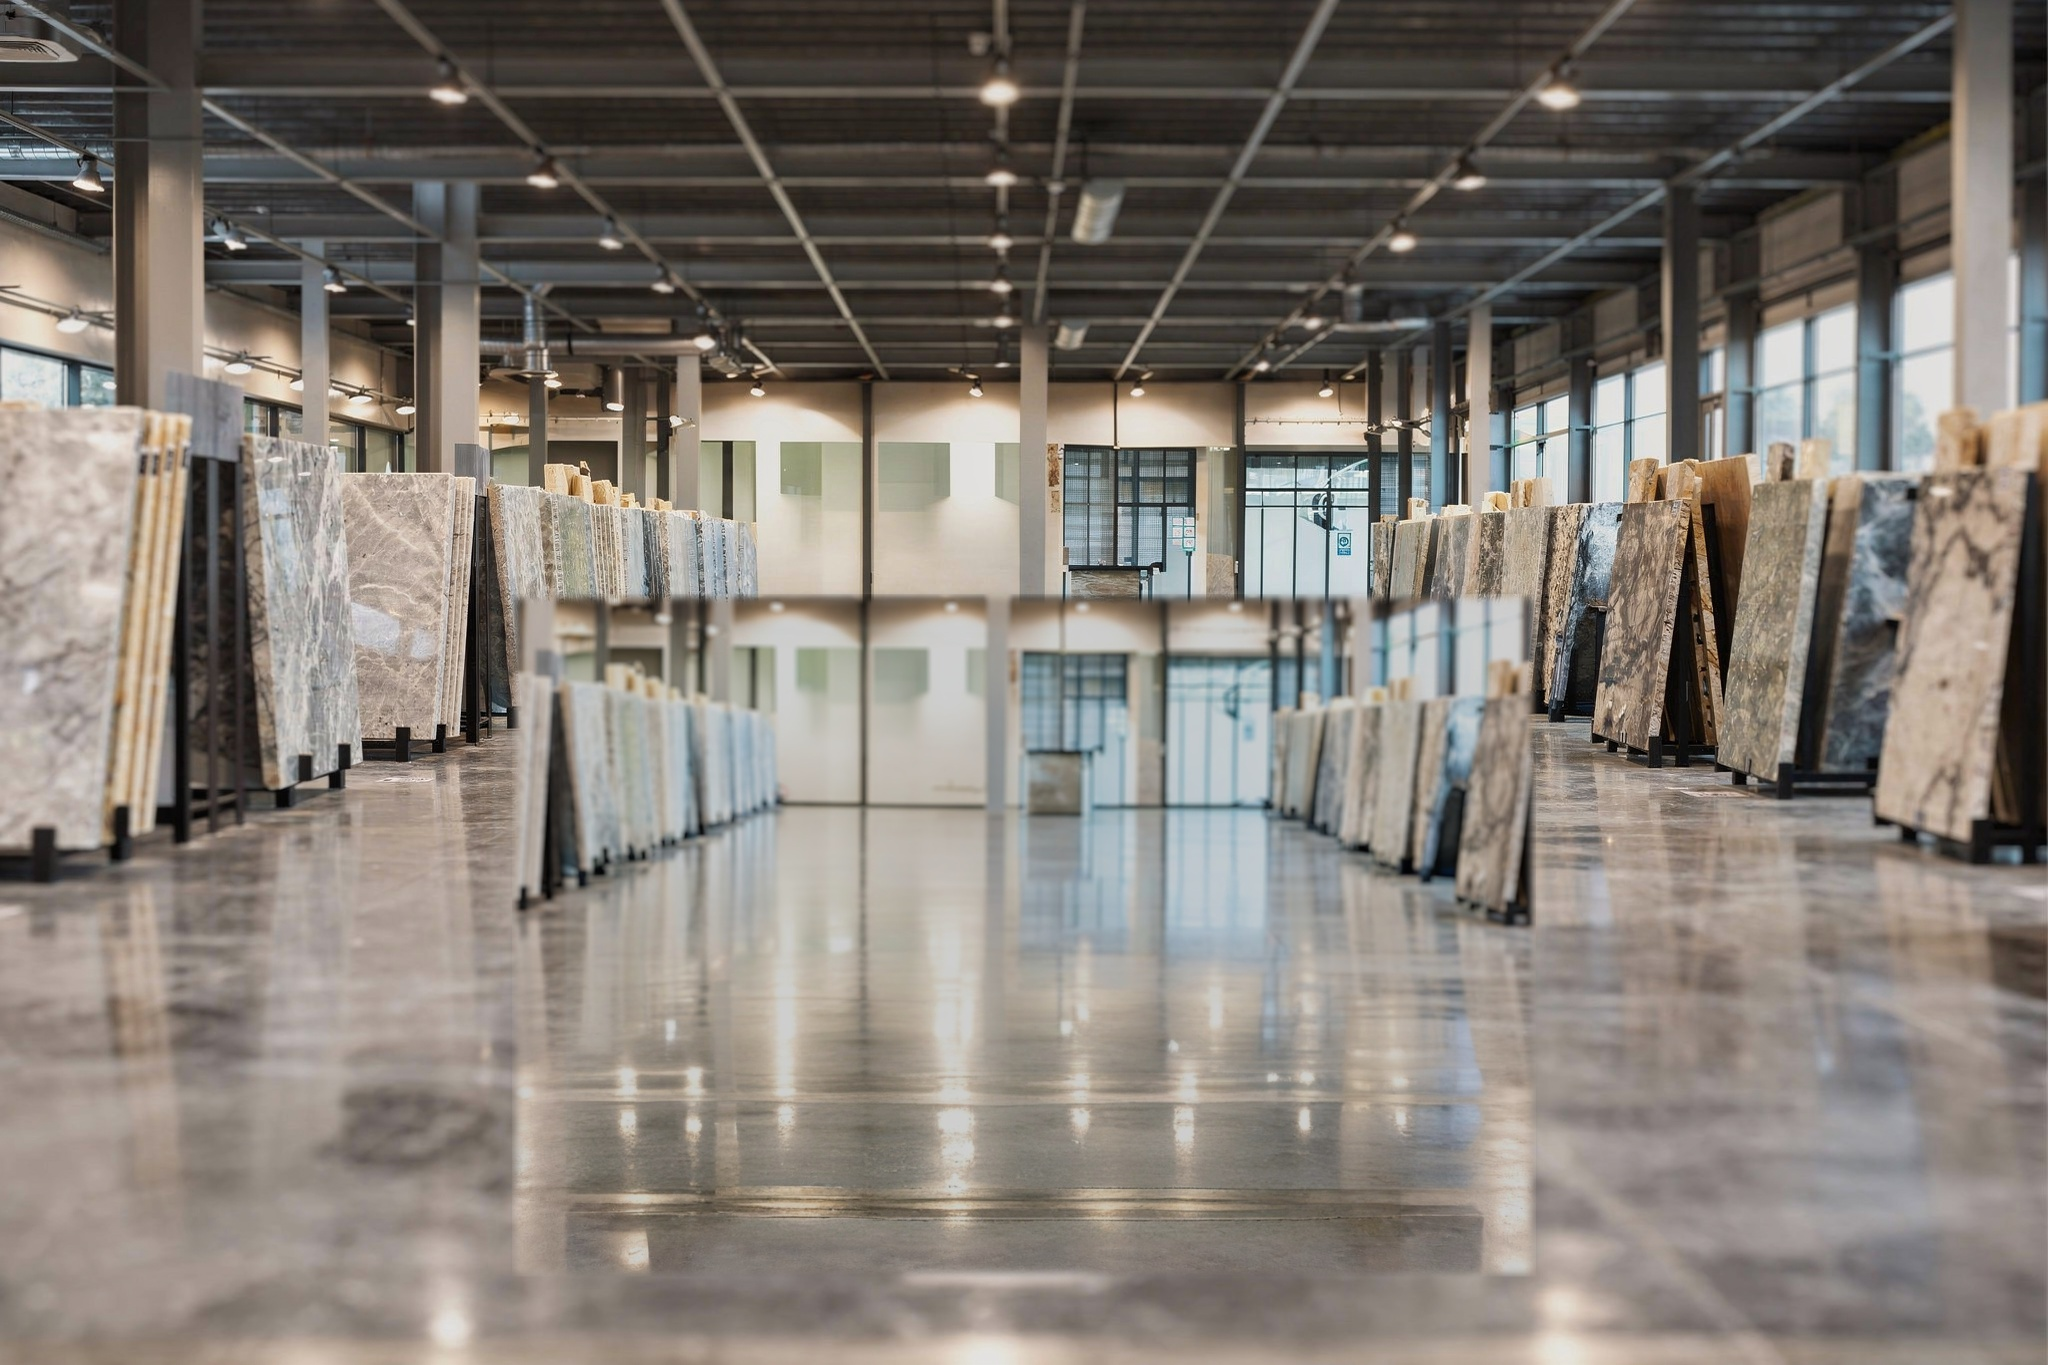
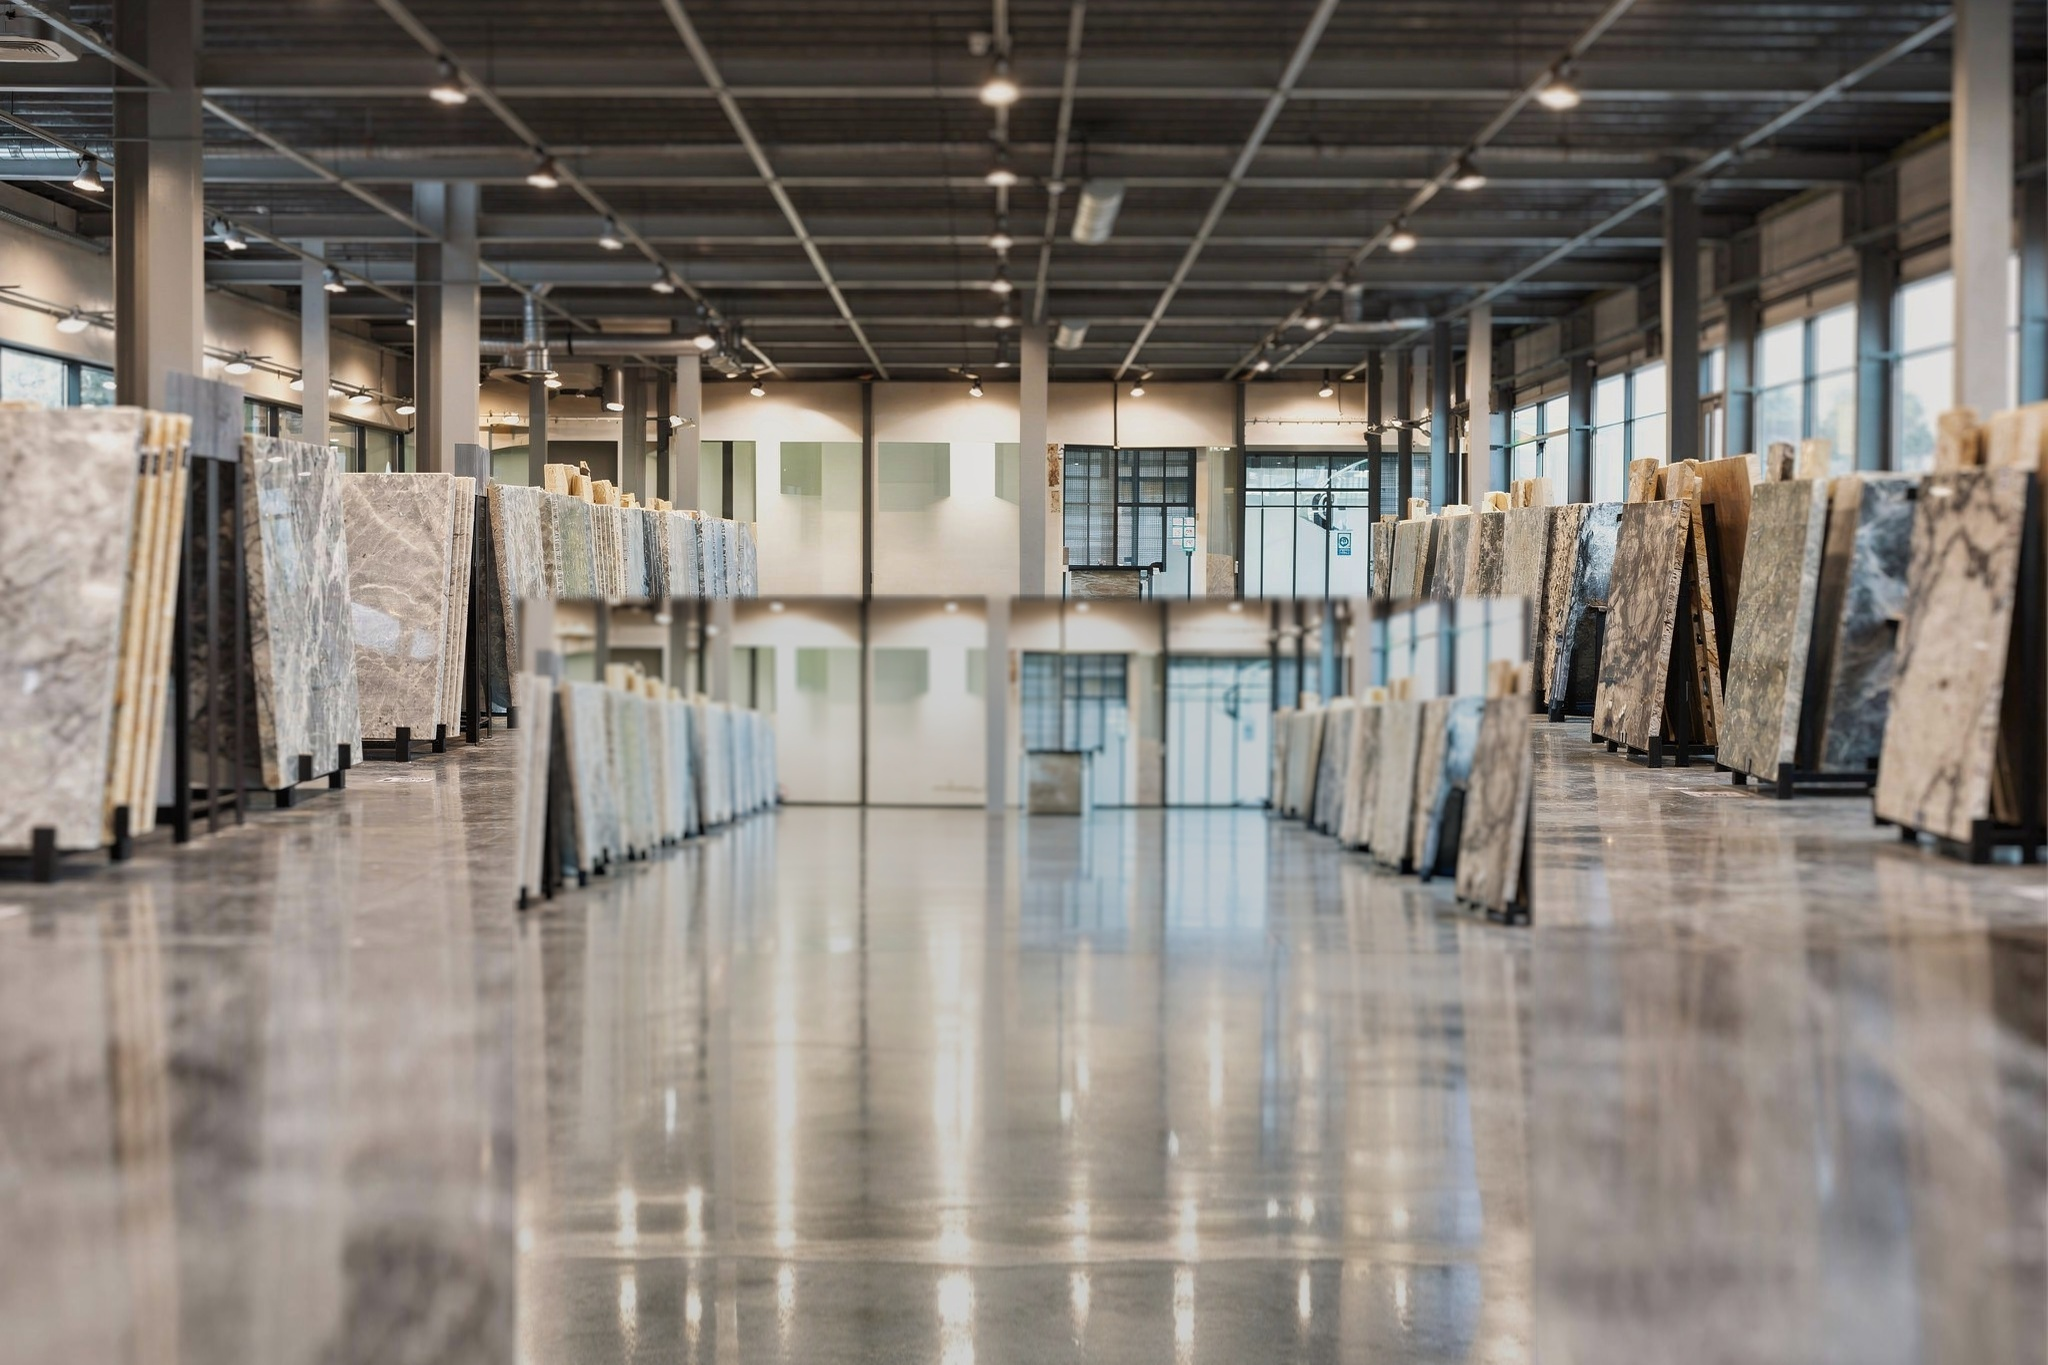
Standardise showroom: the hall's polished floor carries on to the slab, which mirrors in it; the halls' leftover plinth is gone
The near floor was flattened into matte, lightened rows: a flat grey strip against the hall's glossy floor, with a faint
reflection fading out within 120 px. Now:
- beside the slab the hall's floor stays as photographed;
- in front of it the floor can only mirror the slab (it hides the hall behind): the floor's plain tone (the hall floor
  smoothed across) with the slab mirrored at the hall's gloss (0.42 at its foot, fading over 0.30 of the height,
  blurring 2 -> 9 px), the sides blended;
- the six hall images: the low dark plinth from the example photos (rooms 1-3) and the pasted-hall outline (far rooms),
  from 0.845 of the height down, replaced once by the clean floor band above it (0.70-0.845) stretched down: the floor's
  reflections run as vertical streaks, and nearer floor drawn larger is what perspective does. No model, deterministic.

Changed region(s): [[0.0, 0.7077, 1.0, 1.0], [0.0, 0.9231, 0.0938, 1.0], [0.75, 0.7077, 0.8438, 0.8]]

diff --git a/stone_pipeline/tests/test_standardise.py b/stone_pipeline/tests/test_standardise.py
@@ -514,21 +514,36 @@ def test_a_marks_own_border_line_does_not_stay_at_the_fills_edge():
     assert np.abs(merged[:, 290:292].astype(np.float32) - clean[:, 290:292].astype(np.float32)).mean() < 4
 
 
-def test_the_near_floor_has_no_streaks_or_leftover_bands():
+def _hall_with_slab(slab_grey):
+    """A canvas: a glossy hall floor mirroring lamps and racks as bright streaks, a slab standing on the floor line."""
     h, w = C.OUT_H, C.OUT_W
-    room = np.full((h, w, 3), 120, np.float32)
+    out = np.full((h, w, 3), 120, np.float32)
     streaks = np.zeros((h, w), np.float32)
     for x in range(0, w, 128):
-        streaks[:, x:x + 30] = 110                                  # lamps and racks mirrored in a glossy floor
-    room += cv2.GaussianBlur(streaks, (0, 0), 8)[..., None]
-    room[int(0.90 * h):int(0.92 * h)] = 40                          # a band left over from the example photo's stand
-    room = cv2.GaussianBlur(room, (0, 0), 3)                        # as soft as in a photo
-    out = layout.clean_floor(room)
-    near = out[int(C.FLOOR_CLEAN[1] * h):, :, 0]
-    assert near.std(axis=1).max() < 6
-    assert np.abs(np.diff(near.mean(axis=1))).max() < 2
-    top = int(C.FLOOR_CLEAN[0] * h)
-    assert np.array_equal(out[:top], room[:top])
+        streaks[:, x:x + 30] = 110
+    out += cv2.GaussianBlur(streaks, (0, 0), 8)[..., None]
+    bottom = h - int(round(C.FLOOR_SHARE * h))
+    left, total = 400, 1200
+    out[:bottom, left:left + total] = slab_grey
+    return out, left, total, bottom
+
+
+def test_in_front_of_the_slab_the_floor_mirrors_the_slab_not_the_hall():
+    out, left, total, bottom = _hall_with_slab(40)                   # a dark slab
+    before = out.copy()
+    layout._reflect(out, left, total, bottom)
+    mid = slice(left + total // 4, left + 3 * total // 4)
+    near = out[bottom + 5:bottom + 40, mid, 0]
+    assert near.std(axis=1).max() < 0.3 * before[bottom + 5:bottom + 40, mid, 0].std(axis=1).max()   # the hall's streaks gone
+    assert near.mean() < before[bottom + 5:bottom + 40, mid, 0].mean() - 20                          # the dark slab mirrored
+
+
+def test_beside_the_slab_the_hall_floor_stays_as_photographed():
+    out, left, total, bottom = _hall_with_slab(40)
+    before = out.copy()
+    layout._reflect(out, left, total, bottom)
+    assert np.array_equal(out[:, :left], before[:, :left]) and np.array_equal(out[:, left + total:], before[:, left + total:])
+    assert np.array_equal(out[:bottom], before[:bottom])
 
 
 def test_a_close_up_with_a_fan_of_cards_is_cropped_to_its_clear_stone():
@@ -609,16 +624,6 @@ def test_orange_ink_or_tiny_specks_add_nothing():
     rgb, found = _written(_stone(800, 1200, base=170, var=8))
     rgb[500:506, 450:456] = (40, 90, 230)                            # a blue speck in the stone
     assert retouch.same_ink(rgb, found, _whole(), 1200)[490:515, 440:465].sum() == 0
-
-
-def test_the_near_floor_is_a_calm_light_neutral():
-    h, w = C.OUT_H, C.OUT_W
-    room = np.dstack([np.full((h, w), 120), np.full((h, w), 108), np.full((h, w), 92)]).astype(np.float32)   # a warm taupe floor
-    out = layout.clean_floor(room)
-    near = out[int(C.FLOOR_CLEAN[1] * h):].reshape(-1, 3).mean(0)
-    lab = lambda rgb: cv2.cvtColor(np.array([[rgb]], np.float32) / 255, cv2.COLOR_RGB2LAB)[0, 0]
-    was, now = lab(room[-1, 0]), lab(near)
-    assert now[0] > was[0] + 0.5 * C.FLOOR_LIFT and np.hypot(*now[1:]) < 0.6 * np.hypot(*was[1:])
 
 
 def test_the_studio_image_is_the_storefront_frame_and_repeatable():

diff --git a/stone_pipeline/standardise/layout.py b/stone_pipeline/standardise/layout.py
@@ -39,28 +39,7 @@ def _room(name):
     room = np.asarray(Image.open(ROOM_DIR / name).convert("RGB")).astype(np.float32)
     if name.startswith("far_"):                        # out of focus behind slabs in focus, like the regular halls
         room = cv2.GaussianBlur(room, (0, 0), C.FAR_ROOM_BLUR)
-    return clean_floor(room)
-
-
-def clean_floor(room):
-    """The room with its near floor clean: the example photo's glossy floor mirrors lamps and racks where our slab now
-    stands, and keeps a band from the stand that was in it. From FLOOR_CLEAN[0] down it fades into each row's median
-    colour (smoothed down the rows, so no band stays) with the photo's own fine grain, fully by FLOOR_CLEAN[1]; the slab
-    adds its own reflection on top (_reflect)."""
-    h = room.shape[0]
-    start, full = int(C.FLOOR_CLEAN[0] * h), int(C.FLOOR_CLEAN[1] * h)
-    out = room.copy()
-    floor = room[start:]
-    rows = cv2.GaussianBlur(np.median(floor, axis=1)[:, None, :], (0, 0), sigmaX=0.1, sigmaY=C.FLOOR_CLEAN_ROWS * h)
-    # A calm, light, neutral concrete, as Blokport's own pages show stone: the room's warm cast taken mostly out.
-    lab = cv2.cvtColor(np.clip(rows, 0, 255).astype(np.float32) / 255, cv2.COLOR_RGB2LAB)
-    lab[..., 0] += C.FLOOR_LIFT
-    lab[..., 1:] *= C.FLOOR_CHROMA
-    rows = np.clip(cv2.cvtColor(lab, cv2.COLOR_LAB2RGB), 0, 1) * 255
-    clean = rows + C.FLOOR_GRAIN * (floor - cv2.GaussianBlur(floor, (0, 0), 1.5))
-    w = np.clip((np.arange(start, h) - start) / max(1, full - start), 0, 1)[:, None, None]
-    out[start:] = floor * (1 - w) + clean * w
-    return out
+    return room
 
 
 def fit_working(rgb):
@@ -296,18 +275,22 @@ def _stand(out, x, width, bottom):
 
 
 def _reflect(out, left, total, bottom):
-    """The slab mirrored in the matte concrete at its foot: faint, fading and blurring with the distance."""
+    """The hall's polished floor in front of the slab: it can only mirror the slab there (the slab hides the hall behind
+    it), so the hall's own mirrored lamps and racks give way to the floor's plain tone (the hall floor smoothed across)
+    with the slab mirrored at the floor's gloss, fading and blurring with the distance. Beside the slab the hall's floor
+    stays as photographed; the sides blend, as a reflection in a real floor has no hard vertical edge."""
     rows = C.OUT_H - bottom
+    floor = out[bottom:, left:left + total]
+    tone = cv2.GaussianBlur(floor, (0, 0), sigmaX=C.FLOOR_TONE_SPREAD * C.OUT_W, sigmaY=C.FLOOR_TONE_ROWS)
     mirrored = out[bottom - rows:bottom, left:left + total][::-1]
     near = cv2.GaussianBlur(mirrored, (0, 0), C.REFLECT_BLUR[0])
     far = cv2.GaussianBlur(mirrored, (0, 0), C.REFLECT_BLUR[1])
     t = np.arange(rows, dtype=np.float32)[:, None, None]
-    spread = np.clip(t / (2 * C.REFLECT_FALL * C.OUT_H), 0, 1)
+    spread = t / max(1, rows - 1)
     strength = C.REFLECT * np.exp(-t / (C.REFLECT_FALL * C.OUT_H))
-    # Soft at the sides: a reflection in a real floor has no hard vertical edge.
+    under = tone * (1 - strength) + (near * (1 - spread) + far * spread) * strength
     edge = np.clip(np.minimum(np.arange(total), np.arange(total)[::-1]) / (C.REFLECT_SIDE * C.OUT_W), 0, 1)[None, :, None].astype(np.float32)
-    floor = out[bottom:, left:left + total]
-    floor[:] = floor * (1 - strength * edge) + (near * (1 - spread) + far * spread) * strength * edge
+    floor[:] = floor * (1 - edge) + under * edge
 
 
 def _ground(out, left, total, top, bottom):

diff --git a/stone_pipeline/config/settings.py b/stone_pipeline/config/settings.py
@@ -1097,14 +1097,12 @@ class STANDARDISE:
     TWO_STONES_BORDER = 0.3            # ... running along this share of its border took in another slab (178/0.72 vs <=119/0.35 on 72)
     TWO_STONES_WORK = 400              # px: judged at this long side ...
     TWO_STONES_BLUR = 3.0              # ... on the broad colour, not the grain
-    FLOOR_CLEAN = (0.60, 0.80)         # the room's floor fades from as photographed to clean between these shares of the height
-    FLOOR_CLEAN_ROWS = 0.03            # its colour down the rows is smoothed over this share of the height (a leftover band goes)
-    FLOOR_GRAIN = 0.6                  # and keeps this much of the photo's fine concrete grain ...
-    FLOOR_LIFT = 10.0                  # ... is this much lighter (L*) ...
-    FLOOR_CHROMA = 0.35                # ... and keeps this share of the room's colour (a calm neutral)
-    REFLECT = 0.30                     # the slab's reflection in the polished concrete: strength right at its foot ...
-    REFLECT_FALL = 0.09                # ... fading over this share of the canvas height ...
-    REFLECT_BLUR = (3.0, 14.0)         # ... and blurring from this sigma at its foot to this one further out (polished, not mirror) ...
+    FLOOR_TONE_SPREAD = 0.06           # in front of the slab the hall floor's plain tone: smoothed across this share of the width ...
+    FLOOR_TONE_ROWS = 2.0              # ... and this many px down (its mirrored lamps and racks go, its light fall-off stays)
+    REFLECT = 0.42                     # the slab's reflection in the hall's polished floor: strength at its foot, as glossy as
+                                       # the racks mirror in it ...
+    REFLECT_FALL = 0.30                # ... fading over this share of the canvas height ...
+    REFLECT_BLUR = (2.0, 9.0)          # ... and blurring from this sigma at its foot to this one at the canvas bottom (polished) ...
     REFLECT_SIDE = 0.08                # ... and fading in over this share of the canvas width from its sides
     CONTACT = 0.6                      # under the slab the floor is this much darker (no light gets there) ...
     CONTACT_DEPTH = 0.04               # ... over this share of the canvas height ...
